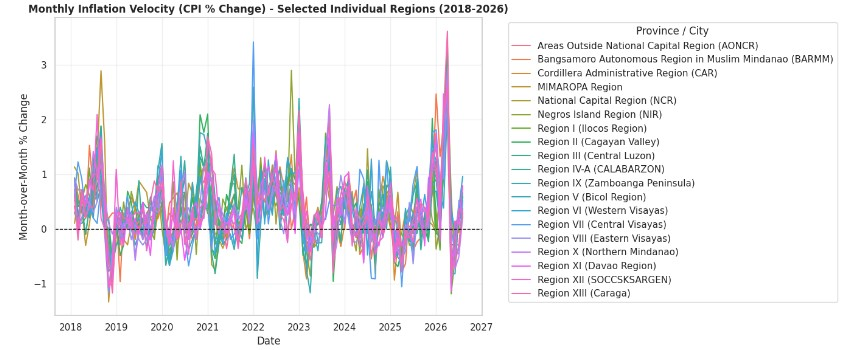
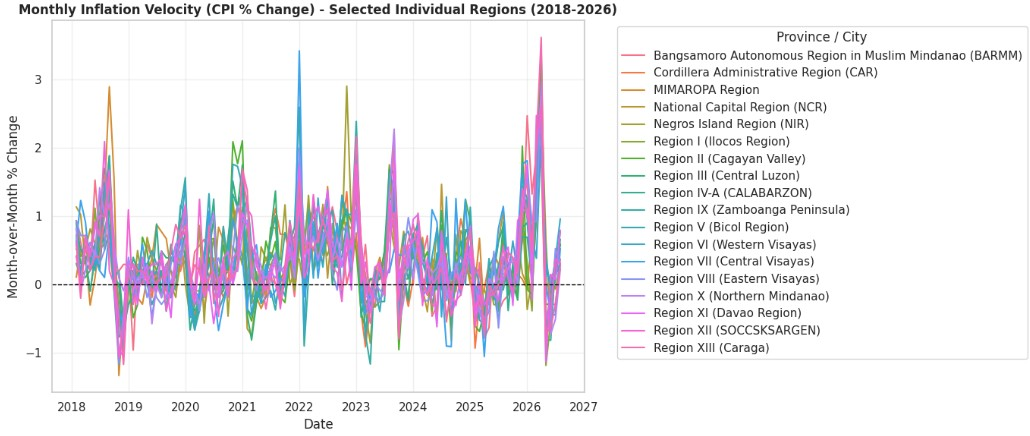
update graphs

diff --git a/app/page.tsx b/app/page.tsx
@@ -273,12 +273,12 @@ export default function PortfolioPage() {
                 Monthly Inflation Velocity (CPI % Change) - All Items (2018-2026)
               </h4>
               <img 
-                src="/rq4-macro-line-chart.png" 
+                src="//rq1-bar-chart.jpg" 
                 alt="Line chart showing macro monthly inflation velocity for NCR, AONCR, and National levels" 
                 className="w-full h-auto rounded"
               />
               <p className="text-sm text-gray-500 mt-3 text-center">
-                Figure 6: A macro-level time-series line chart comparing the month-over-month inflation velocities between the National Capital Region (NCR), Areas Outside NCR (AONCR), and the overall Philippine national average.
+                Figure 6: A macro-level time-series line chart comparing the month-over-month inflation velocities between Philippine regions.
               </p>
             </div>
 
@@ -287,7 +287,7 @@ export default function PortfolioPage() {
                 Inflation Velocity Extremes (Lowest and Highest 5 MoM Changes)
               </h4>
               <img 
-                src="/rq4-extremes-bar-chart.png" 
+                src="/rq4-extremes-bar-chart.jpg" 
                 alt="Bar charts showing the top 5 highest and lowest time periods for inflation velocity" 
                 className="w-full h-auto rounded"
               />
